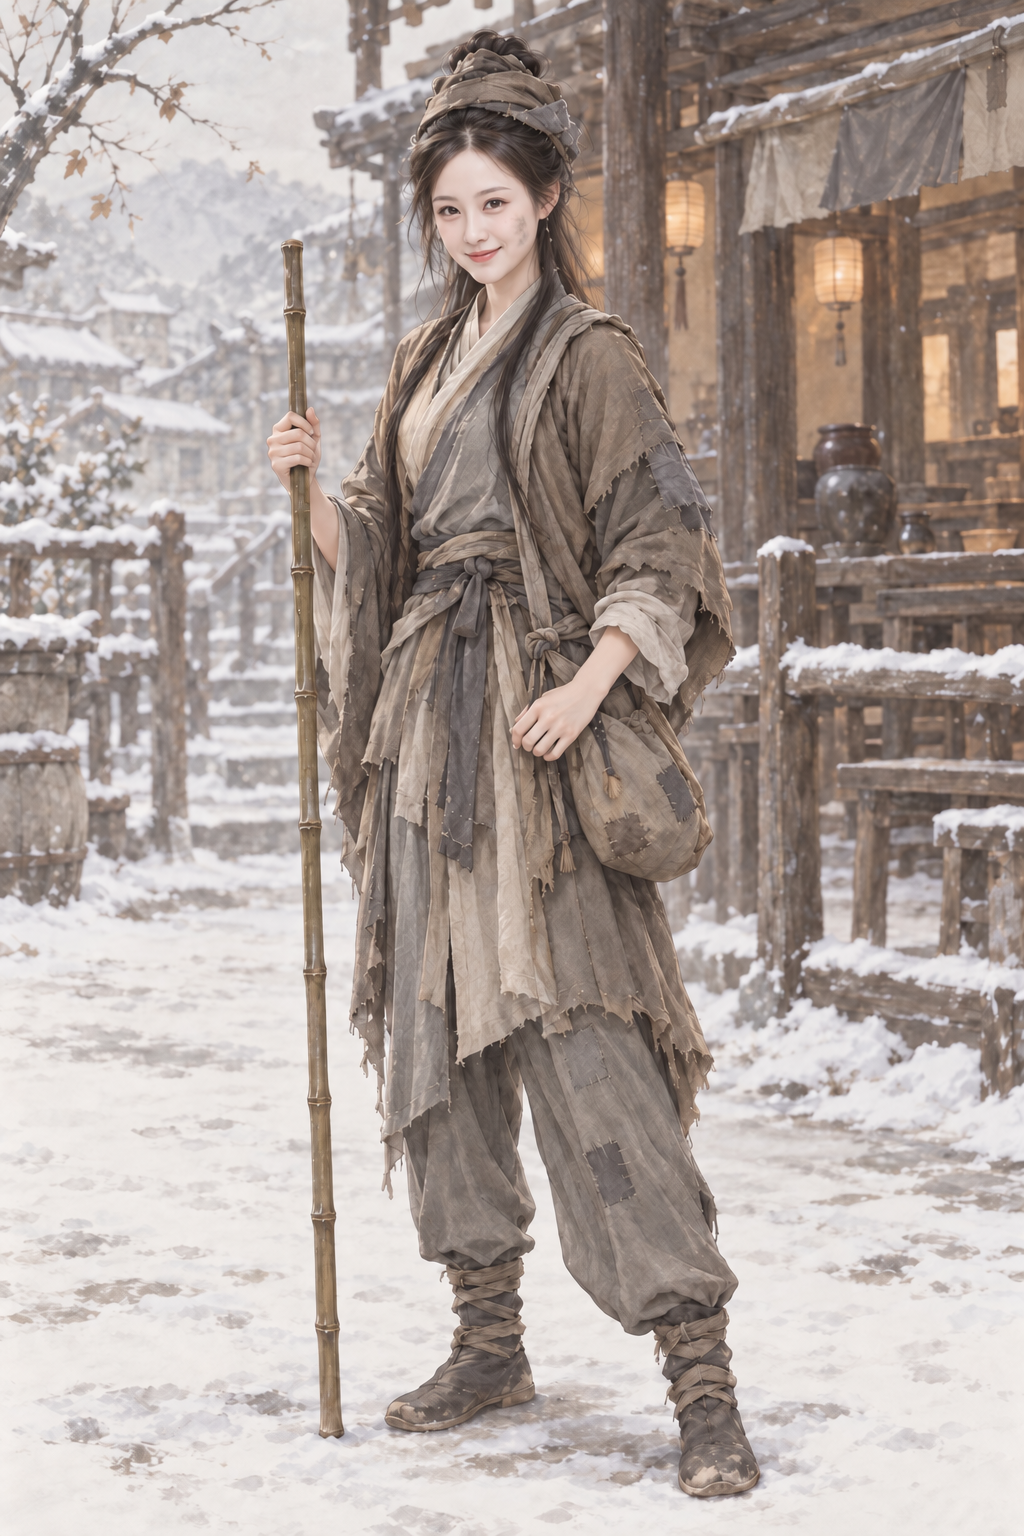
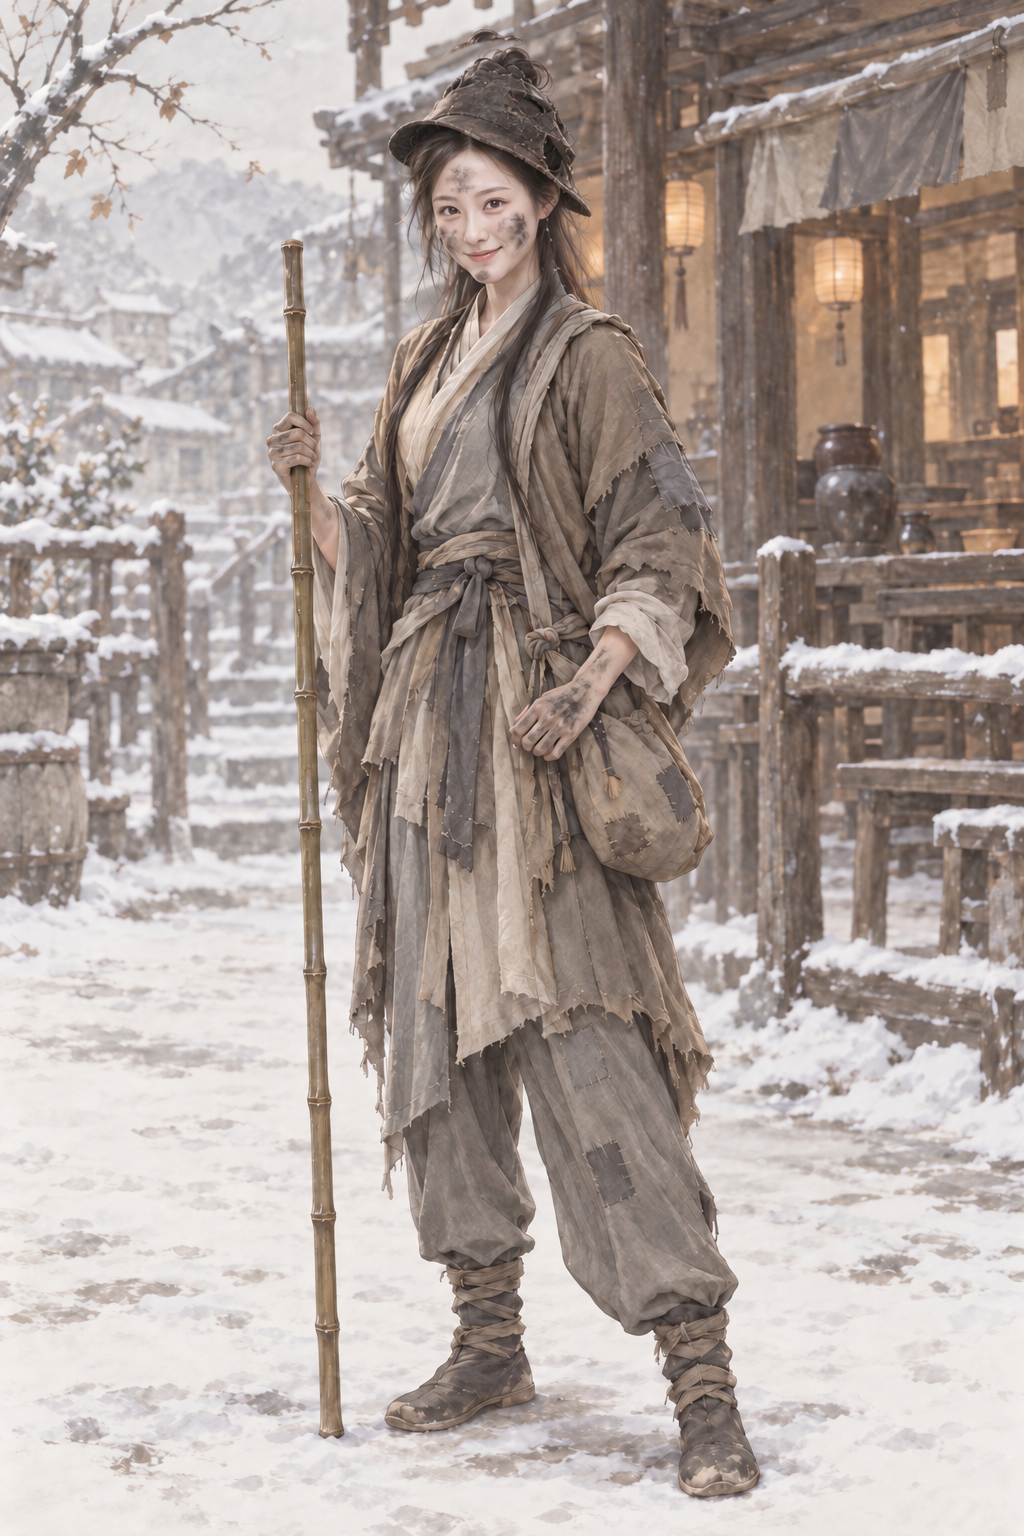
assets: AR-82 原著核对返修 黄蓉小叫化补黑破皮帽及煤污
原著摘句已同步提示词；已打开验图；蒙版外0像素变化。

Executed-By: Codex gpt-6.1-sol（AR-82）

Changed region(s): [[0.375, 0.0, 0.5938, 0.2188], [0.5, 0.4062, 0.625, 0.5], [0.25, 0.25, 0.3438, 0.3438]]

diff --git a/assets/default/prompts/characters/ch02-shediao/npc_huangrong__scene_young_beggar_disguise.md b/assets/default/prompts/characters/ch02-shediao/npc_huangrong__scene_young_beggar_disguise.md
@@ -122,3 +122,8 @@ Create a premium REALISTIC Chinese wuxia character illustration with a delicate 
 - 采用作者授权宽松自查；偏差如实记录，candidate不代表approved。
 - 源PNG通常为1024×1536 RGB；其他原生2:3尺寸如实登记，原字节保存，不裁切、重编码、放大或去除溯源。
 - 完整请求、实际参考哈希及旧版本备份见 `.agents/coord/portrait-generation/realism-20261001/por_npc_huangrong__ch02_youth_scene_young_beggar_disguise.prepared.json`。
+
+## 原著依据
+
+- 《射雕英雄传》第七回 比武招亲：“头上歪戴着一顶黑黝黝的破皮帽，脸上手上全是黑煤”；https://www.xuges.com/wuxia/jinyong/sdyxz/049.htm
+- AR-82 返修约束（本节优先于历史提示词）：只在黄蓉头顶戴一顶歪戴黑黝黝的破皮帽，盖住发髻。额头、脸颊和双手加明显但自然的黑煤污，保持原脸五官和表情、骨相不变，不换脸。灰破男装、竹杖、身形与背景完全原样。
